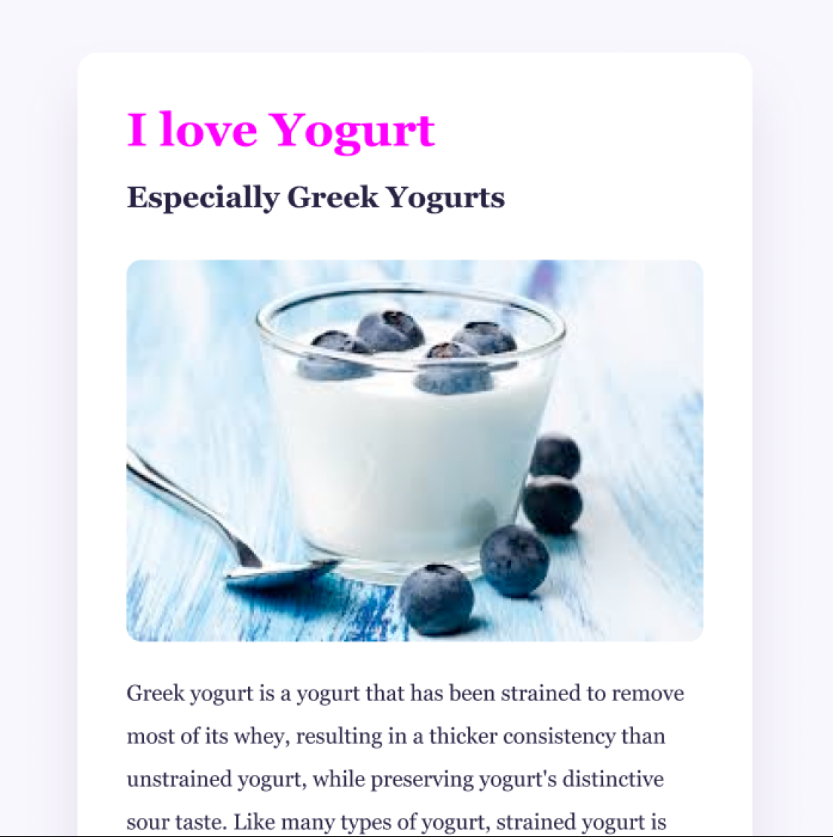
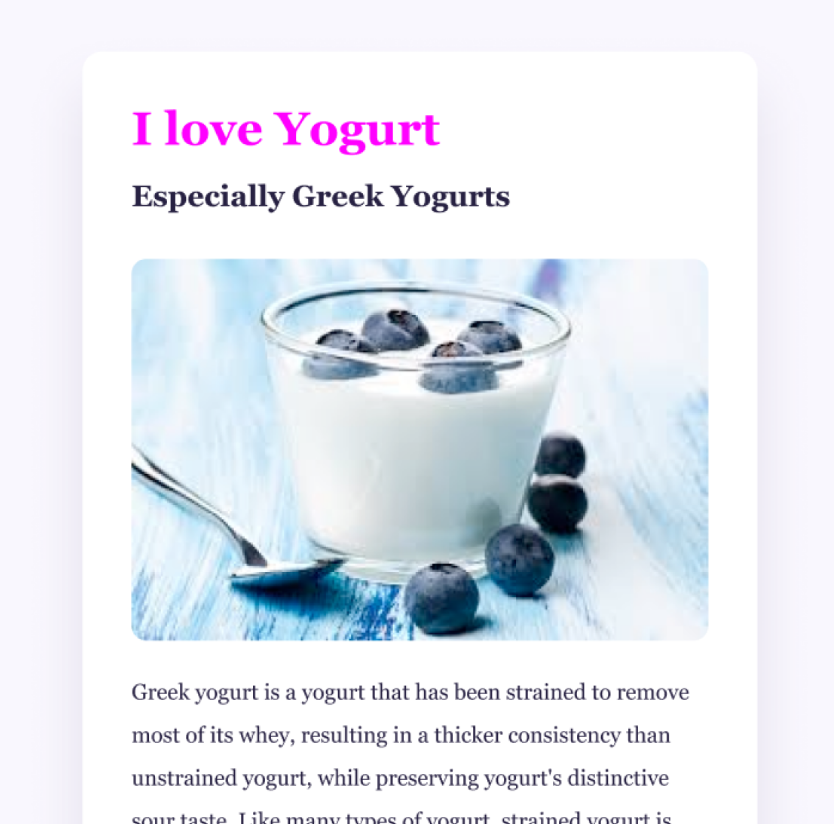
Adding mobile responsive and SEO

diff --git a/index.html b/index.html
@@ -4,6 +4,7 @@
     <meta charset="UTF-8" />
     <meta http-equiv="X-UA-Compatible" content="IE=edge" />
     <meta name="viewport" content="width=device-width, initial-scale=1.0" />
+    <meta name="description" content="Personal web-page - Vitalina Kuzmenko">
     <link
       href="https://cdn.jsdelivr.net/npm/bootstrap@5.2.0/dist/css/bootstrap.min.css"
       rel="stylesheet"
@@ -61,11 +62,10 @@
     <div class="container">
       <div class="row">
         <div class="col-md-6 ">
-          <img class="mw-100 rounded" src="images/yoga.png" alt="yoga" />
+          <img class="mw-100 rounded" src="images/yoga.png" alt="yoga-image" />
         </div>
         <div class="col-md-6 ">
           <h2>Yoga app</h1>
-           
           <p class="bg-transparent">
             Lorem ipsum dolor sit amet consectetur adipisicing elit. Perferendis
             quia, dignissimos nam ratione veniam quibusdam porro omnis quam vel
@@ -87,12 +87,12 @@
               <a href="#" class="link">Launch Weather App</a>
           </div>
         <div class="col-md-6">
-          <img class="mw-100 rounded" src="images/weather.png" alt="">
+          <img class="mw-100 rounded" src="images/weather.png" alt="weather-image">
         </div>
       </div>
       <div class="row">
           <div class="col-md-6">
-            <img class="mw-100 rounded" src="images/yogurt.png" alt="yoga" />
+            <img class="mw-100 rounded" src="images/yogurt.png" alt="yogurt-image" />
           </div>
           <div class="col-md-6">
             <h2>Yogurt app</h1>

diff --git a/about.html b/about.html
@@ -4,6 +4,10 @@
     <meta charset="UTF-8" />
     <meta http-equiv="X-UA-Compatible" content="IE=edge" />
     <meta name="viewport" content="width=device-width, initial-scale=1.0" />
+    <meta
+      name="description"
+      content="Personal web-page. About me. Contact me - Vitalina Kuzmenko"
+    />
     <link
       href="https://cdn.jsdelivr.net/npm/bootstrap@5.2.0/dist/css/bootstrap.min.css"
       rel="stylesheet"
@@ -66,27 +70,27 @@
           <img
             class="img-fluid p-2 shadow rounded"
             src="images/yoga.png"
-            alt="yoga"
+            alt="yoga-image"
           />
         </div>
         <div class="col-md-4">
           <img
             class="img-fluid p-2 shadow rounded"
             src="images/weather.png"
-            alt="weather"
+            alt="weather-image"
           />
         </div>
         <div class="col-md-4">
           <img
             class="img-fluid p-2 shadow rounded"
             src="images/yogurt.png"
-            alt="yougurt"
+            alt="yogurt-image"
           />
         </div>
       </div>
     </div>
     <div id="contact">
-      <h2 class="mt-5">📮 Contact me</h2>
+      <h2 class="mt-5 contact">📮 Contact me</h2>
       <a href="mailto:vitalina.photo@gmail.com" class="email-link">
         vitalina.photo@gmail.com
       </a>

diff --git a/style.css b/style.css
@@ -131,3 +131,67 @@ p {
 .p-in-para {
   padding: 0;
 }
+
+@media (max-width: 576px) {
+  h1 {
+    font-size: 40px;
+  }
+
+  h2 {
+    font-size: 28px;
+  }
+
+  h3 {
+    font-size: 20px;
+  }
+
+  .navigation-links a {
+    margin: 5px;
+    padding: 15px 15px;
+    font-size: 18px;
+  }
+
+  .link {
+    font-size: 18px;
+  }
+
+  .contact {
+    font-size: 28px;
+  }
+
+  .contact-link {
+    font-size: 24px;
+  }
+}
+
+@media (max-width: 768px) {
+  h1 {
+    font-size: 60px;
+  }
+
+  h2 {
+    font-size: 40px;
+  }
+
+  h3 {
+    font-size: 30px;
+  }
+
+  .navigation-links a {
+    margin: 5px;
+    padding: 15px 15px;
+    font-size: 18px;
+  }
+
+  .link {
+    font-size: 16px;
+  }
+
+  .contact {
+    font-size: 28px;
+  }
+
+  .contact-link {
+    font-size: 24px;
+  }
+}
